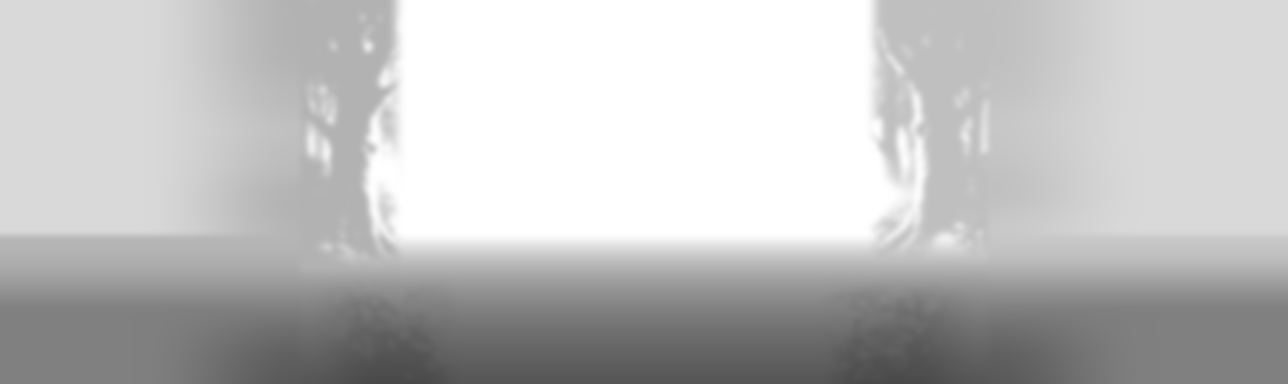
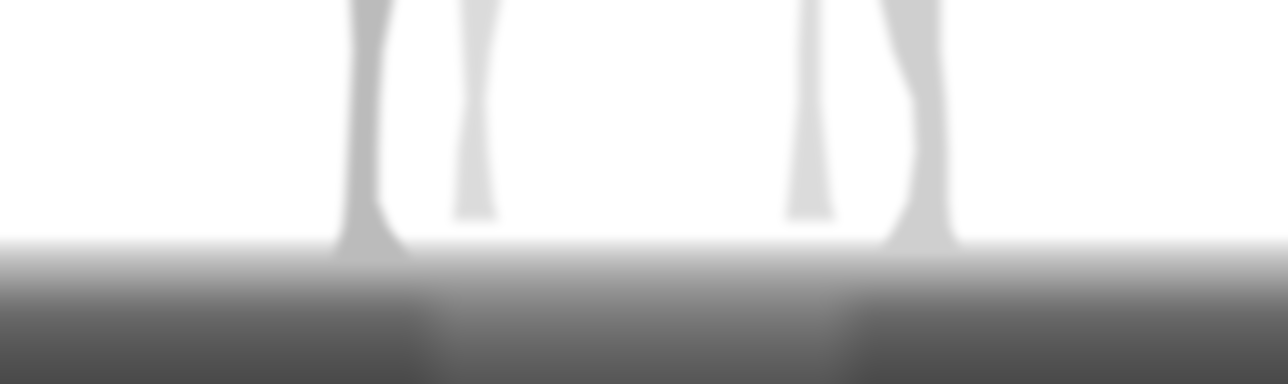
fix(scene): stop the relief, corner ferns and moon shafts from coming apart
When the camera moved, the corner ferns slid about 290 px and showed a sharp
edge, the depth map tore on its horizon cliff and speckled trunks, and the
moon shafts slid across the moon. The depth map now comes from trunks traced
by hand and is read with smoothing, the ferns sit further back over a mirrored
off-screen margin, and the shafts recede without moving on screen.

Refs: #MAE-2

diff --git a/src/scene/relief.ts b/src/scene/relief.ts
@@ -1,7 +1,7 @@
 // relief.ts - La peinture montée en relief, ses côtés et le fondu des bords (MAE-28)
 
 import {
-  Color, Mesh, MeshBasicMaterial, PlaneGeometry, RepeatWrapping, ShaderMaterial,
+  Color, MathUtils, Mesh, MeshBasicMaterial, MirroredRepeatWrapping, PlaneGeometry, RepeatWrapping, ShaderMaterial,
   type Group, type Material, type PerspectiveCamera, type Texture, type Vector3,
 } from "three";
 import { CONFIG } from "../config.ts";
@@ -145,20 +145,22 @@ export async function buildRelief(
     add(plain(nearRight), ORDER.sideNear, false, sides.near.depth);
   }
 
-  // Fougères sombres des coins de l'écran
-  const corners: { mesh: Mesh; width: number; height: number; isLeft: boolean }[] = [];
+  // Fougères sombres des coins de l'écran. L'image se reflète au-delà de son bord extérieur (bord de l'écran) :
+  // la marge qui reste hors champ au repos ne montre ni bord net ni couleurs étirées quand la caméra bouge.
+  const corners: { mesh: Mesh; map: Texture; width: number; height: number; isLeft: boolean }[] = [];
   if (sides?.corners && cornerTextures) {
     const { left, right, amplitude, rise } = sides.corners;
     [{ map: cornerTextures[0], size: left, isLeft: true }, { map: cornerTextures[1], size: right, isLeft: false }].forEach(({ map, size, isLeft }) => {
+      map.wrapS = MirroredRepeatWrapping;
       const material = bin.add(swayingMaterial(map, time, amplitude, rise));
       material.fog = false;
       const mesh = fullPlane(material, ORDER.corners, parent);
       bin.add(mesh.geometry);
-      corners.push({ mesh, width: size.width, height: size.height, isLeft });
+      corners.push({ mesh, map, width: size.width, height: size.height, isLeft });
     });
   }
 
-  const pitch = CONFIG.scene.camera.pitch;
+  const { pitch, fov, parallax } = CONFIG.scene.camera;
   // Plan face à la caméra, qui couvre exactement ce rectangle de l'écran à cette profondeur
   const placeOnScreen = (mesh: Mesh, left: number, right: number, top: number, bottom: number, depth: number) => {
     const topLeft = pointAtDepth(camera, left, top, depth);
@@ -234,9 +236,17 @@ export async function buildRelief(
           heightPx = (widthPx * corner.height) / corner.width;
         }
         const out = 0.02; // déborde légèrement de l'écran : aucun bord visible
+        const depth = sides?.corners?.depth ?? 14;
         const inner = -1 + (2 * widthPx) / canvasSize.width;
-        const [left, right] = corner.isLeft ? [-1 - out, inner] : [-inner, 1 + out];
-        placeOnScreen(corner.mesh, left, right, -1 + (2 * heightPx) / canvasSize.height, -1 - out, sides?.corners?.depth ?? 7);
+        // Marge hors champ, égale au plus grand déplacement de la caméra vu à cette profondeur
+        const aspect = canvasSize.width / canvasSize.height;
+        const travel = parallax.amplitude / (depth * aspect * Math.tan(MathUtils.degToRad(fov / 2)));
+        const visible = inner + 1 + out;
+        const [left, right] = corner.isLeft ? [-1 - out - travel, inner] : [-inner, 1 + out + travel];
+        // Au repos, la partie visible garde exactement la même échelle
+        corner.map.repeat.x = (visible + travel) / visible;
+        corner.map.offset.x = corner.isLeft ? -travel / visible : 0;
+        placeOnScreen(corner.mesh, left, right, -1 + (2 * heightPx) / canvasSize.height, -1 - out, depth);
       }
     },
   };

diff --git a/src/scene/atmosphere.ts b/src/scene/atmosphere.ts
@@ -18,6 +18,7 @@ const MIST_LAYERS = [
   { size: [70, 34], position: [0, 0.3, -7], opacity: 0.22, repeat: [2.2, 1.1], speed: [-0.004, 0.0015], seed: 22 },
 ] as const;
 const SHAFTS = [[-2.5, -2.5, 2.4, 0.38], [0.8, -3.5, 1.6, 0.34], [3.2, -1.5, 1.1, 0.4]] as const;
+const SHAFT_RECEDE = 2.5;
 // Clairière du combat : la plupart des lucioles restent autour, pour ne pas gêner la lecture des personnages
 const CLEARING = { x: 0.3, z: 0.5, rx: 6.8, rz: 3.7, margin: -2.5 };
 
@@ -87,6 +88,7 @@ export function buildAtmosphere(decor: Decor, parent: Group, camera: Perspective
       }
     }
   }, false));
+  const shaftMeshes: Mesh[] = [];
   const shafts = SHAFTS.map(([x, z, width, tilt]) => {
     const material = bin.add(new MeshBasicMaterial({
       color: colors.moonlight, alphaMap: shaftMask, transparent: true, opacity: atmosphere.shafts.opacity,
@@ -97,6 +99,7 @@ export function buildAtmosphere(decor: Decor, parent: Group, camera: Perspective
     shaft.rotation.z = -tilt;
     shaft.renderOrder = ORDER.shafts;
     parent.add(shaft);
+    shaftMeshes.push(shaft);
     return material;
   });
 
@@ -148,6 +151,13 @@ export function buildAtmosphere(decor: Decor, parent: Group, camera: Perspective
       cameraDistance = framing.cameraDistance;
       uniformEdge.value = imageEdge;
       uniformResolution.value.copy(drawingBuffer);
+      // Rayons reculés vers la forêt peinte et agrandis d'autant : même image au repos, sans glisser sur la lune
+      // quand la caméra bouge. Toujours avec la caméra au repos, comme le relief.
+      shaftMeshes.forEach((shaft, i) => {
+        const [x, z] = SHAFTS[i];
+        shaft.position.set(x, 8, z).sub(camera.position).multiplyScalar(SHAFT_RECEDE).add(camera.position);
+        shaft.scale.setScalar(SHAFT_RECEDE);
+      });
     },
     update(t) {
       for (const layer of mistLayers) layer.texture.offset.set(layer.speed.x * t, layer.speed.y * t);

diff --git a/src/scene/materials.ts b/src/scene/materials.ts
@@ -139,10 +139,18 @@ export async function loadDepthMap(url: string) {
   const context = context2d(canvas, { willReadFrequently: true });
   context.drawImage(image, 0, 0);
   const { data, width, height } = context.getImageData(0, 0, image.width, image.height);
+  const at = (x: number, y: number) => data[(y * width + x) * 4] / 255;
+  // Lecture lissée entre quatre pixels : au plus proche, le relief ferait de petites marches
   return (u: number, v: number) => {
-    const x = Math.min(width - 1, Math.max(0, Math.round(u * (width - 1))));
-    const y = Math.min(height - 1, Math.max(0, Math.round((1 - v) * (height - 1))));
-    return data[(y * width + x) * 4] / 255;
+    const x = Math.min(width - 1, Math.max(0, u * (width - 1)));
+    const y = Math.min(height - 1, Math.max(0, (1 - v) * (height - 1)));
+    const x0 = Math.floor(x);
+    const y0 = Math.floor(y);
+    const x1 = Math.min(width - 1, x0 + 1);
+    const y1 = Math.min(height - 1, y0 + 1);
+    const top = at(x0, y0) + (at(x1, y0) - at(x0, y0)) * (x - x0);
+    const bottom = at(x0, y1) + (at(x1, y1) - at(x0, y1)) * (x - x0);
+    return top + (bottom - top) * (y - y0);
   };
 }
 

diff --git a/src/scene/painted-stage.ts b/src/scene/painted-stage.ts
@@ -20,8 +20,6 @@ import { computeFraming, type Framing } from "./framing.ts";
 import { ResourceBin } from "./materials.ts";
 import { buildRelief, type ReliefView } from "./relief.ts";
 
-const PARALLAX = { amplitude: 0.9, speed: 0.35 };
-
 export type SceneQuality = keyof typeof CONFIG.scene.qualityLevels;
 
 export interface StageMeasure {
@@ -218,7 +216,8 @@ export function createPaintedStage(container: HTMLElement, quality: SceneQuality
     time.value = t;
     view.actors.update(t, moving);
     view.atmosphere.update(t);
-    const targetDrift = parallax && moving ? Math.sin(t * PARALLAX.speed) * PARALLAX.amplitude : 0;
+    const { amplitude, speed } = cameraConfig.parallax;
+    const targetDrift = parallax && moving ? Math.sin(t * speed) * amplitude : 0;
     if (framing && Math.abs(targetDrift - drift) > 1e-4) {
       drift = targetDrift;
       placeCamera(framing.cameraDistance, drift);

diff --git a/src/data/decors.ts b/src/data/decors.ts
@@ -74,7 +74,7 @@ export const DECORS: Record<DecorId, Decor> = {
       corners: {
         left:  { file: `${LISIERE_DIR}/corner-left.png`,  width: 290, height: 360 },
         right: { file: `${LISIERE_DIR}/corner-right.png`, width: 350, height: 310 },
-        depth: 7, amplitude: 0.012, rise: [0.15, 1],
+        depth: 14, amplitude: 0.012, rise: [0.15, 1],
       },
     },
     atmosphere: {

diff --git a/src/config.ts b/src/config.ts
@@ -39,6 +39,7 @@ export const CONFIG = {
       targetX: 0,
       targetY: 1,
       targetZ: 0.4,
+      parallax: { amplitude: 0.9, speed: 0.35 }, // oscillation de contrôle (touche P) : mètres de chaque côté, radians par seconde
     },
     tiltShift: {
       margin:  70,        // zone nette : des pieds aux têtes, plus cette marge, en pixels CSS
